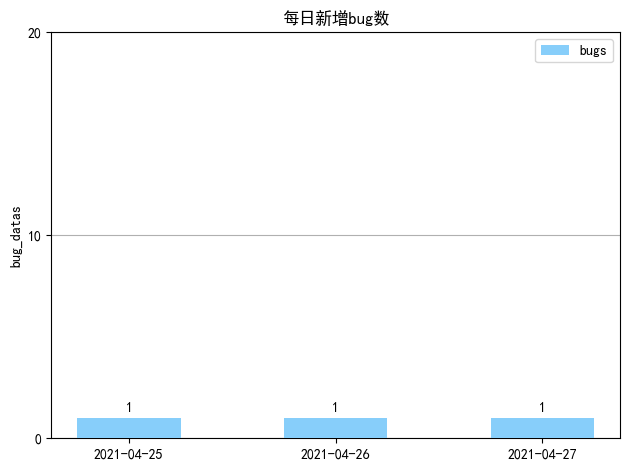
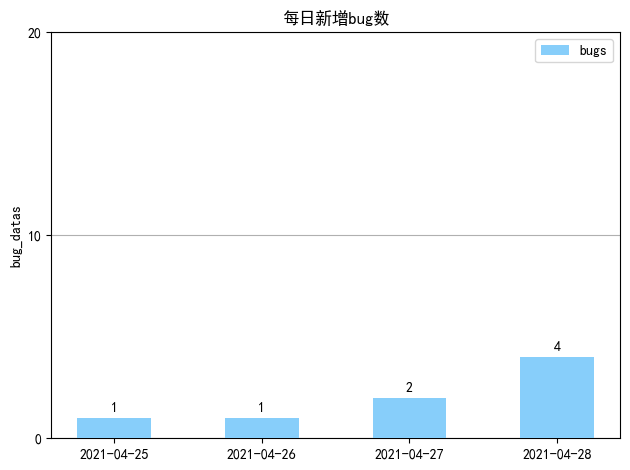
2021/4/28 优化

Changed region(s): [[0.3317, 0.8043, 0.7238, 0.983], [0.754, 0.7149, 0.9651, 0.983], [0.1206, 0.8638, 0.3016, 0.983]]

diff --git a/Tapd/html/testerHtml.html b/Tapd/html/testerHtml.html
@@ -5,6 +5,6 @@
     <title>模板</title>
 </head>
 <body>
-<table style="border-collapse:collapse;word-break:keep-all;white-space:nowrap;font-size:14px;"><tr style="color:#fff;background-color:#48a6fb;font-size:18px;"><th style="border-color:#000;border-width:1px;border-style:solid;padding:15px;text-align:center;">测试人员</th><th style="border-color:#000;border-width:1px;border-style:solid;padding:15px;text-align:center;">今日提交BUG数</th><th style="border-color:#000;border-width:1px;border-style:solid;padding:15px;text-align:center;">待验证BUG数</th><th style="border-color:#000;border-width:1px;border-style:solid;padding:15px;text-align:center;">今日关闭BUG数</th></tr><tr><td style="border-color:#000;border-width:1px;border-style:solid;padding:8px;text-align:center;font-size:15px;">王琦</td><td style="border-color:#000;border-width:1px;border-style:solid;padding:8px;text-align:center;font-size:15px;">1</td><td style="border-color:#000;border-width:1px;border-style:solid;padding:8px;text-align:center;font-size:15px;">3</td><td style="border-color:#000;border-width:1px;border-style:solid;padding:8px;text-align:center;font-size:15px;">0</td></tr><tr><td style="border-color:#000;border-width:1px;border-style:solid;padding:5px;text-align:center;">总计</td><td style="border-color:#000;border-width:1px;border-style:solid;padding:5px;text-align:center;">1</td><td style="border-color:#000;border-width:1px;border-style:solid;padding:5px;text-align:center;">3</td><td style="border-color:#000;border-width:1px;border-style:solid;padding:5px;text-align:center;">0</td></tr></table>
+<table style="border-collapse:collapse;word-break:keep-all;white-space:nowrap;font-size:14px;"><tr style="color:#fff;background-color:#48a6fb;font-size:18px;"><th style="border-color:#000;border-width:1px;border-style:solid;padding:15px;text-align:center;">测试人员</th><th style="border-color:#000;border-width:1px;border-style:solid;padding:15px;text-align:center;">今日提交BUG数</th><th style="border-color:#000;border-width:1px;border-style:solid;padding:15px;text-align:center;">待验证BUG数</th><th style="border-color:#000;border-width:1px;border-style:solid;padding:15px;text-align:center;">今日关闭BUG数</th></tr><tr><td style="border-color:#000;border-width:1px;border-style:solid;padding:8px;text-align:center;font-size:15px;">王琦</td><td style="border-color:#000;border-width:1px;border-style:solid;padding:8px;text-align:center;font-size:15px;">4</td><td style="border-color:#000;border-width:1px;border-style:solid;padding:8px;text-align:center;font-size:15px;">2</td><td style="border-color:#000;border-width:1px;border-style:solid;padding:8px;text-align:center;font-size:15px;">1</td></tr><tr><td style="border-color:#000;border-width:1px;border-style:solid;padding:5px;text-align:center;">总计</td><td style="border-color:#000;border-width:1px;border-style:solid;padding:5px;text-align:center;">4</td><td style="border-color:#000;border-width:1px;border-style:solid;padding:5px;text-align:center;">2</td><td style="border-color:#000;border-width:1px;border-style:solid;padding:5px;text-align:center;">1</td></tr></table>
 </body>
 </html>

diff --git a/Tapd/utils.py b/Tapd/utils.py
@@ -5,11 +5,11 @@ def getdateNum(my_datas, dict) -> int:
     value = [value for value in dict.values()]
     result = []
 
-    for dict in my_datas:
+    for d in my_datas:
         for i in range(dict_len):
-            if dict[key[i]] != value[i]:
+            if d[key[i]] != value[i]:
                 break
-            if i == dict_len - 1 and dict[key[i]] == value[i]:
+            if i == dict_len - 1 and d[key[i]] == value[i]:
                 result.append(list)
     result_len = len(result)
     return result_len
